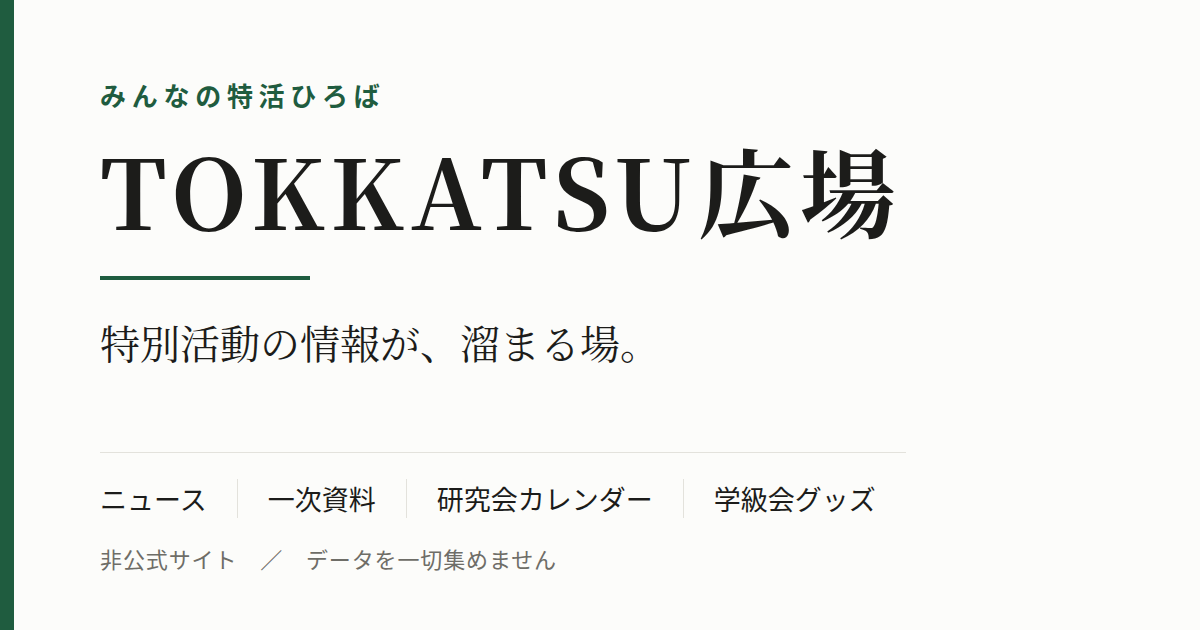
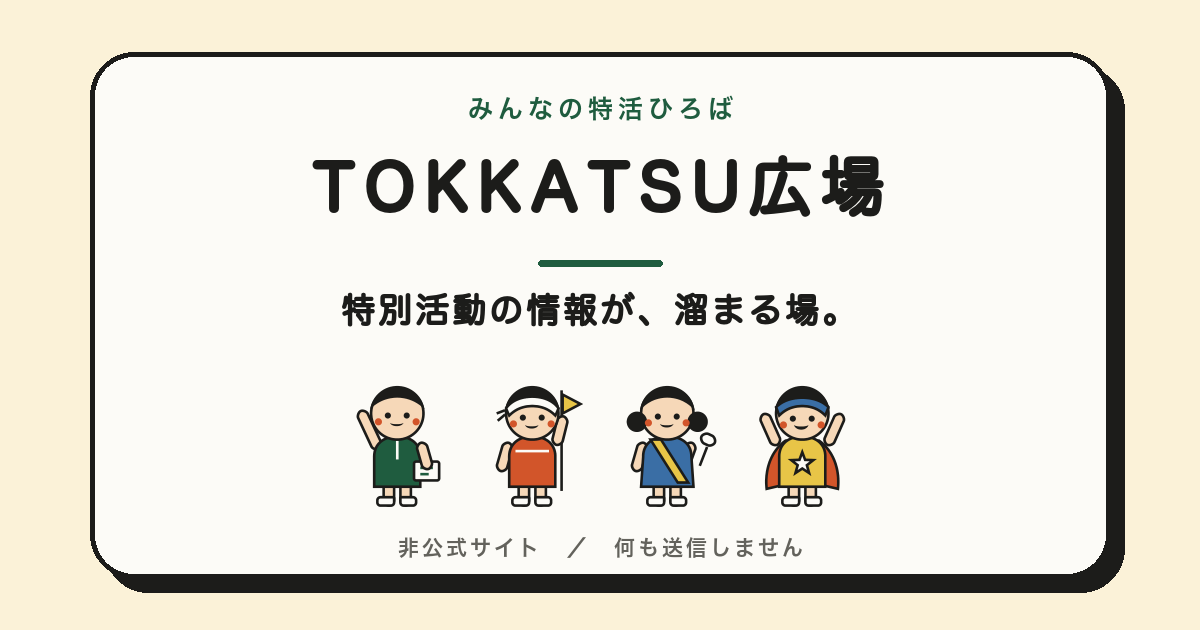
ホームにこよみと概要を置く／帯を8つに戻す／スマホの空とOGPを直す
ホーム
・8つの札の真下に こよみ。よこにスライドして月を送る（スワイプでも ‹ › でも）
　4か月を縦に積むと3画面ぶんあったのが、1か月ぶんの高さに収まる
・その下に「中身を、ざっと」。7つのページの中身を、節そのものから抜いて出す
　（手で写さない。節を直せば概要も付いてくる）
・こよみは atsumaru から index へ移した

帯
・4つ（ページ名）だと、ホームの札8つと数がちがって分かりにくいので8つに戻す
・いまのページにある項目に印をつける。同じページの中なら #◯◯ のまま飛ぶ

スマホの空
・言葉の下に空が100pxほど余っていた。min-height を外すだけでは足りず、
　.hero-koe が position:absolute で空の高さに関われないのが本当の原因
・スマホでは絶対配置をやめ、言葉を絵の上にふつうに積む。
　空は「余白＋言葉＋余白」ちょうどになり、端末の高さにつられて伸びない

LINEで画像が出ない
・LINEは 1200x630 を真ん中の正方形に切る。前の絵は字が左に寄っていたので、
　切ると「KKATSU広場」になっていた（画像そのものは配信できていた）
・ぜんぶ真ん中にそろえ、題は 575px に収めた（正方形は630px）
・4人と、このサイトの札（太いふち＋ずらした影）に作り直す
・?v=3 に上げ、og:image:type を足す

diff --git a/src/style-hiroba.css b/src/style-hiroba.css
@@ -202,10 +202,19 @@ img,svg{max-width:100%}
 @media (max-width:719px){
   .hero-e--hiro{display:none}
   .hero-e--semai{display:block}
-  /* スマホでは min-height を持たせない。持たせると justify-content:flex-end が
-     「言葉の下・絵の上」に空を足す（375×812で実測150px。LINEの内蔵ブラウザで
-     いちばん目につく空白がこれ）。高さは padding-top＋絵の高さで自然に決める。 */
-  .hero{min-height:0}
+  /* スマホの空は、言葉の高さで決める（2026-09-21 直し）。
+     min-height を外しても、まだ空が余っていました。原因は2つあって、
+     ① .hero-koe が position:absolute なので、空の高さに関われない
+     ② .hero の padding-top が 30vh 固定で、言葉の高さ（実測154px）より
+        100pxほど大きい。背の高い端末ほど、空だけが伸びる。
+     そこで、スマホでは絶対配置をやめて、言葉を絵の上にふつうに積みます。
+     こうすると空は「余白＋言葉＋余白」ちょうどになり、端末の高さに
+     つられて伸びません。 */
+  .hero{min-height:0;padding-top:0}
+  .hero-koe{
+    position:static;order:-1;        /* 絵より先に置く（DOMでは絵が先のため） */
+    padding-block:clamp(24px,4.5vh,40px) clamp(20px,3.5vh,34px);
+  }
   .midashi .ja{letter-spacing:.1em}
   .hyo a,.hyo .gyo{grid-template-columns:1fr;gap:4px}
   .hyo .d{justify-self:start}
@@ -1352,4 +1361,97 @@ a.fuda-tag:hover,a.fuda-tag:focus-visible{transform:translateY(-2px)}
   .hfuda-h{font-size:15.5px}
   .hfuda-yo{margin-top:4px;font-size:12.5px}
   .hfuda-kazu{margin-top:8px}
+}
+
+/* ══════════════════════════════════════════════════════════════
+   こよみを、よこにスライドさせる（2026-09-21）
+
+   4か月ぶんを縦に積むと、それだけで画面3枚ぶんありました。
+   広場で「縦にめっちゃ長い」「月ごとに横にスライド式とかどうですか？」
+   という声をもらい、よこ並べに直したところです。
+   スワイプでも ‹ › でも動きます。JSは scrollBy を呼ぶだけです。
+   ══════════════════════════════════════════════════════════════ */
+.koyomi-ue{
+  display:flex;align-items:center;justify-content:space-between;gap:12px;
+  margin-bottom:4px;
+}
+.koyomi-hint{
+  margin:0;font-family:var(--f-maru);font-weight:700;font-size:12px;
+  letter-spacing:.04em;color:var(--mute);
+}
+.koyomi-hint::after{content:"　→"}
+.koyomi-okuri{margin:0;display:flex;gap:8px}
+.tsuki-b{
+  width:38px;height:38px;display:grid;place-items:center;
+  background:var(--bg);color:var(--ink);
+  border:2.5px solid var(--ink);border-radius:50%;
+  font-family:var(--f-en);font-size:20px;line-height:1;cursor:pointer;
+  transition:transform .14s ease,background .14s ease;
+}
+.tsuki-b:hover,.tsuki-b:focus-visible{background:var(--men-ki);transform:scale(1.08)}
+.tsuki-b[disabled]{opacity:.3;cursor:default;transform:none;background:var(--bg)}
+
+.tsuki-ban{
+  display:grid;grid-auto-flow:column;grid-auto-columns:100%;
+  gap:clamp(14px,2vw,20px);
+  overflow-x:auto;overscroll-behavior-x:contain;
+  scroll-snap-type:x mandatory;scroll-behavior:smooth;
+  scrollbar-width:none;-webkit-overflow-scrolling:touch;
+  /* 指でつかむ所が要るので、ふちに少しだけ余白を残す */
+  padding-bottom:2px;
+}
+.tsuki-ban::-webkit-scrollbar{display:none}
+.tsuki-ban:focus-visible{outline:3px solid var(--ink);outline-offset:3px;border-radius:8px}
+.tsuki{scroll-snap-align:center;min-width:0}
+@media (prefers-reduced-motion:reduce){.tsuki-ban{scroll-behavior:auto}}
+
+/* ══ ホームの「中身を、ざっと」 ══════════════════════════════
+   札を押すまで中身が分からない、という話から足したところ。
+   中に出ている字は、ぜんぶ節そのものから抜いています。 */
+.gban{
+  display:grid;grid-template-columns:repeat(3,1fr);
+  gap:clamp(14px,2vw,20px);margin-top:clamp(24px,3vw,34px);
+}
+.gfuda{
+  display:grid;grid-template-rows:auto 1fr auto;
+  padding:clamp(16px,1.8vw,22px) clamp(15px,1.7vw,20px) clamp(14px,1.6vw,18px);
+  background:var(--bg);border:2.5px solid var(--ink);border-radius:18px;
+  box-shadow:5px 5px 0 var(--ink);color:var(--ink);text-decoration:none;
+  transition:transform .16s ease,box-shadow .16s ease;
+}
+.gfuda:hover,.gfuda:focus-visible{
+  transform:translate(-3px,-3px);box-shadow:8px 8px 0 var(--ink);
+}
+.gfuda-h{
+  font-family:var(--f-maru);font-weight:700;font-size:16px;letter-spacing:.04em;
+  padding-bottom:9px;border-bottom:2px solid var(--rule);
+}
+.gfuda-l{
+  list-style:none;margin:10px 0 0;padding:0;
+  display:grid;gap:5px;font-size:13px;line-height:1.7;color:var(--mute);
+}
+.gfuda-l li{
+  display:grid;grid-template-columns:auto 1fr;gap:7px;align-items:start;
+}
+.gfuda-l li::before{
+  content:"";width:6px;height:6px;margin-top:8px;border-radius:50%;
+  background:var(--ink);opacity:.35;
+}
+.gfuda-go{
+  margin-top:13px;font-family:var(--f-maru);font-weight:700;font-size:12.5px;
+  letter-spacing:.04em;color:var(--accent);
+}
+.gfuda-go::after{content:"　→"}
+/* 行き先のページごとに、札と同じ色をつける */
+.gf--about,.gf--yotsu  {background:var(--men-sora)}
+.gf--manabu,.gf--jissen{background:var(--men-midori)}
+.gf--news,.gf--kai,.gf--okuru{background:var(--men-ki)}
+
+@media (max-width:1023px){
+  .gban{grid-template-columns:repeat(2,1fr)}
+}
+@media (max-width:719px){
+  .koyomi-hint{font-size:11.5px}
+  .gban{grid-template-columns:1fr;gap:12px;margin-top:22px}
+  .gfuda{border-radius:16px;box-shadow:4px 4px 0 var(--ink);padding:15px 14px 16px}
 }

diff --git a/src/hiroba.html b/src/hiroba.html
@@ -412,6 +412,33 @@
     setTimeout(hashDe, 0);
   }
 
+  /* ── こよみを、月ごとによこへ送る（2026-09-21）──────────────
+     スワイプと ‹ › の両方で動きます。やっているのは scrollBy だけで、
+     何も送信しません。JSが動かない場面でも、指でスライドはできます。 */
+  var koyomiBan = document.querySelector('.tsuki-ban');
+  if(koyomiBan){
+    var tsukiHaba = function(){
+      var t = koyomiBan.querySelector('.tsuki');
+      return t ? t.getBoundingClientRect().width + 18 : koyomiBan.clientWidth;
+    };
+    var okuriNaosu = function(){
+      var ue = koyomiBan.scrollLeft;
+      var hashi = koyomiBan.scrollWidth - koyomiBan.clientWidth - 1;
+      document.querySelectorAll('.tsuki-b').forEach(function(b){
+        b.disabled = (b.dataset.tsuki === '-1') ? (ue <= 1) : (ue >= hashi);
+      });
+    };
+    document.querySelectorAll('.tsuki-b').forEach(function(b){
+      b.addEventListener('click', function(){
+        koyomiBan.scrollBy({left: tsukiHaba() * Number(b.dataset.tsuki),
+                            behavior: reduced ? 'auto' : 'smooth'});
+      });
+    });
+    koyomiBan.addEventListener('scroll', okuriNaosu, {passive:true});
+    window.addEventListener('resize', okuriNaosu);
+    okuriNaosu();
+  }
+
   function setCycle(n){
     document.querySelectorAll('[data-learn-step]').forEach(function(button){
       button.classList.toggle('is-on', button.dataset.learnStep === String(n));

diff --git a/src/head-hiroba.html b/src/head-hiroba.html
@@ -8,7 +8,8 @@
 <meta property="og:site_name" content="TOKKATSU広場">
 <meta property="og:title" content="TOKKATSU広場｜特別活動の情報が、溜まる場。">
 <meta property="og:description" content="ニュース・一次資料・研究会カレンダー・学級会グッズ。LINEは話す場、ここは溜まる場です。">
-<meta property="og:image" content="https://yuutennis657-beep.github.io/tokkatsu-hiroba/ogp.png?v=2">
+<meta property="og:image" content="https://yuutennis657-beep.github.io/tokkatsu-hiroba/ogp.png?v=3">
+<meta property="og:image:type" content="image/png">
 <meta property="og:image:width" content="1200">
 <meta property="og:image:height" content="630">
 <meta property="og:image:alt" content="TOKKATSU広場｜特別活動の情報が、溜まる場。">

diff --git a/build.py b/build.py
@@ -59,18 +59,18 @@ SITE_URL = 'https://yuutennis657-beep.github.io/tokkatsu-hiroba/'
 #   のこり◯件、原文）は、いままでどおりページの中の <details> で開きます。
 #
 #   （ファイル名, ページの名前, 添えの1行, 入れる節のid）
+#   2026-09-21 追記：こよみは、ホームに置きます（「つぎ、いつ」は入口で
+#   見たいものなので）。だから ima だけ index.html に入っています。
 PAGES = (
-    ('index.html',    'TOKKATSU広場', '', ()),
+    ('index.html',    'TOKKATSU広場', '', ('ima',)),
     ('shiru.html',    '知る',   '特別活動って、なに。4つの内容は、どれ。',
      ('about', 'yotsu')),
     ('manabu.html',   '学ぶ',   '学級会の学習過程と、明日そのまま使える実践。',
      ('manabu', 'jissen')),
-    ('atsumaru.html', '集まる', '研究会のこよみ、ニュース、各地の会、実践を送る。',
-     ('ima', 'news', 'kai', 'okuru')),
+    ('atsumaru.html', '集まる', 'ニュース、各地の研究会、実践を送る。',
+     ('news', 'kai', 'okuru')),
 )
 HOME = PAGES[0][0]
-# 帯（どのページでも同じ位置に、同じ4つ）。旧・本体の OBI とは別ものです
-PAGE_OBI = tuple((f, na) for f, na, _, _ in PAGES)
 # 節の名前。ホームの札と、ページの中の見出しで使い回します
 SETSU_NA = {
     'ima':    'カレンダー', 'news':   'ニュース',
@@ -1373,8 +1373,24 @@ def build_koyomi(ken, kyou):
         '        <li><i class="maru maru--club">4</i>クラブ部</li>\n'
         '        <li><i class="maru maru--shime">5</i>申込〆切（点線）</li>\n'
         '      </ul>\n'
-        '      <p class="koyomi-chu">色のついた日を押すと、右の一覧のその1件にとびます。</p>')
-    return '    <div class="koyomi">\n' + '\n'.join(out) + '\n' + hanrei + '\n    </div>'
+        '      <p class="koyomi-chu">色のついた日を押すと、下の一覧のその1件にとびます。</p>')
+    # 2026-09-21：月を縦に積むと、それだけで画面何枚ぶんにもなりました。
+    #   よこに並べて、1月ずつスライドさせます（スワイプでも、‹ › でも動きます）。
+    ue = ('      <div class="koyomi-ue">\n'
+          '        <p class="koyomi-hint">よこにスライド</p>\n'
+          '        <p class="koyomi-okuri">\n'
+          '          <button type="button" class="tsuki-b" data-tsuki="-1"'
+          ' aria-label="前の月を見る">‹</button>\n'
+          '          <button type="button" class="tsuki-b" data-tsuki="1"'
+          ' aria-label="次の月を見る">›</button>\n'
+          '        </p>\n'
+          '      </div>')
+    ban = ('      <div class="tsuki-ban" tabindex="0" role="group"'
+           ' aria-label="研究会のこよみ。%dか月ぶんを、よこにスライドして見ます">\n'
+           % len(out)
+           + '\n'.join(out) + '\n      </div>')
+    return ('    <div class="koyomi">\n' + ue + '\n' + ban + '\n'
+            + hanrei + '\n    </div>')
 
 
 def build_kenkyukai(ken, kyara, buhin, kyou=None):
@@ -1965,6 +1981,73 @@ def build_home(doko, sec, buhin, kyara, kiji, jissen, ken):
     return honbun, tsukatta
 
 
+# ══ ホームの「中身を、ざっと」（2026-09-21に追加）════════════
+#   札を押すまで中身が分からない、という話から足しました。
+#   ★ ここに書く中身は、ぜんぶ節そのものから抜いています。
+#     手で写さないこと（節を直したのに概要が古い、が起きます）。
+
+GFUDA = """      <a class="gfuda gf--{sid}" href="{saki}">
+        <b class="gfuda-h">{midashi}</b>
+        <ul class="gfuda-l">
+{gyo}
+        </ul>
+        <span class="gfuda-go">{iku}</span>
+      </a>"""
+
+
+def _nuku(html, pat, n=4):
+    """節の中から、見出しになっている字だけを抜く。"""
+    out = []
+    for m in re.finditer(pat, html, re.S):
+        t = re.sub(r'<[^>]+>', '', m.group(1)).strip()
+        t = re.sub(r'\s+', ' ', t)
+        if t and t not in out:
+            out.append(t)
+    if not out:
+        raise Tomeru('ホームの概要が、節から中身を1つも抜けませんでした（%s）' % pat)
+    return out[:n]
+
+
+def build_gaiyo(sec, doko, kiji, jissen):
+    naka = {
+        # 「特活とは」… 4つの箱の見出し
+        'about':  _nuku(sec['about'], r'<h3 class="manabu-h">(.*?)</h3>'),
+        # 「学ぶ」… 5段階の名前
+        'manabu': _nuku(sec['manabu'], r'<summary><span class="no">\d</span>'
+                                       r'<span class="sh"><b>(.*?)</b>', 5),
+        # 「4つの内容」… 4人の名前と、受けもつ内容
+        'yotsu':  ['%s　%s' % (na, naiyo) for _, na, naiyo, _ in KYARA_MEN],
+        # 「送る」… 4つの手順
+        'okuru':  _nuku(sec['okuru'], r'<li><span class="n">\d</span><b>(.*?)</b>'),
+        # ニュースと実践は、いま載っているものそのもの
+        'news':   [a.get('home') or a['title'] for a in kiji[:3]],
+        'jissen': [a['title'] for a in jissen[:3]],
+        # 研究会は、範囲ごとの数
+        'kai':    ['全国の会　%d' % sum(1 for k in KAI if k[0] == 'zen'),
+                   '都道府県の会　%d' % sum(1 for k in KAI if k[0] == 'ken'),
+                   '市の会　%d' % sum(1 for k in KAI if k[0] == 'shi')],
+    }
+    fuda = []
+    for sid, _, _, _ in HOME_FUDA:
+        if sid not in naka:       # こよみは、この下に本物が出ているので要りません
+            continue
+        saki = '%s#%s' % (doko[sid], sid)
+        iku = '%s を開く' % dict((f, na) for f, na, _, _ in PAGES)[doko[sid]]
+        fuda.append(GFUDA.format(
+            sid=sid, saki=saki, midashi=esc_html(SETSU_NA[sid]),
+            iku=esc_html(iku),
+            gyo='\n'.join('          <li>%s</li>' % esc_html(t) for t in naka[sid])))
+    return ('<section class="sec" id="gaiyo">\n'
+            '  <div class="uchi">\n'
+            '    <h2 class="midashi"><span class="en">SUMMARY</span>'
+            '<span class="ja">中身を、ざっと</span></h2>\n'
+            '    <p class="yomi">どのページに何があるか、押すまえに見られます。'
+            'ここに出ているのは、そのページの中身そのものです。</p>\n'
+            '    <div class="gban">\n' + '\n'.join(fuda) + '\n    </div>\n'
+            '  </div>\n'
+            '</section>')
+
+
 # ══ 組み上がった1枚を、ページごとに切り分ける ══════════════
 
 def wakeru(body):
@@ -1993,16 +2076,20 @@ def wakeru(body):
     return hero, sec, foot, shikake
 
 
-def build_obi(ima_file):
-    """帯。どのページでも同じ4つを、同じ位置に。いまいるページに印をつける。"""
+def build_obi(ima_file, doko):
+    """帯。どのページでも同じ位置に、同じ8つ。
+       2026-09-21：いちど4つ（ページ名）にしましたが、ホームの札8つと
+       数がちがって分かりにくい、という話になったので8つに戻しました。
+       行き先はページをまたぎます。いまのページにある項目には印をつけます。"""
     gyo = []
-    for f, na in PAGE_OBI:
-        ima = (f == ima_file)
-        # ロゴと同じ字を2つ並べない。ホームだけ、帯では「ホーム」と出す
+    for sid, _, _, _ in HOME_FUDA:
+        saki = doko[sid]
+        ima = (saki == ima_file)
         gyo.append('      <li><a href="%s"%s>%s</a></li>'
-                   % (f, ' class="obi-ima" aria-current="page"' if ima else '',
-                      esc_html('ホーム' if f == HOME else na)))
-    return ('<nav class="obi" aria-label="TOKKATSU広場の4つのページ">\n'
+                   % ('#%s' % sid if ima else '%s#%s' % (saki, sid),
+                      ' class="obi-ima" aria-current="page"' if ima else '',
+                      esc_html(SETSU_NA[sid])))
+    return ('<nav class="obi" aria-label="TOKKATSU広場の中の、8つの行き先">\n'
             '  <div class="obi-uchi">\n'
             '    <a class="obi-na" href="%s">TOKKATSU広場</a>\n'
             '    <ul class="obi-l">\n' % HOME
@@ -2158,16 +2245,23 @@ def build_shin():
     for i in re.findall(r'\sid="([^"]+)"', home_html):
         doko[i] = HOME
 
+    gaiyo_html = build_gaiyo(sec, doko, kiji, jissen)
+    for i in re.findall(r'\sid="([^"]+)"', gaiyo_html):
+        doko[i] = HOME
+
     pages = {}
     for f, na, yo, setsu in PAGES:
         if f == HOME:
-            atama, naka_html, saki = hero, home_html, 'ichiran'
+            # ホームの並び … 8つの札 → こよみ → 中身をざっと
+            atama, saki = hero, 'ichiran'
+            naka_html = '\n\n'.join([home_html]
+                                    + [sec[s] for s in setsu] + [gaiyo_html])
         else:
             atama = KO_T.format(home=HOME, na=esc_html(na), yo=esc_html(yo),
                                 naka='　'.join(SETSU_NA[s] for s in setsu))
             naka_html, saki = '\n\n'.join(sec[s] for s in setsu), setsu[0]
         p = '\n'.join(['<a class="skip" href="#%s">本文へ進む</a>' % saki,
-                       atama, build_obi(f), naka_html, foot, shikake])
+                       atama, build_obi(f, doko), naka_html, foot, shikake])
         p = tsunagi_naosu(p, f, doko, tsune)
         html = '\n'.join([
             '<!DOCTYPE html>', '<html lang="ja" dir="ltr">', '<head>',
